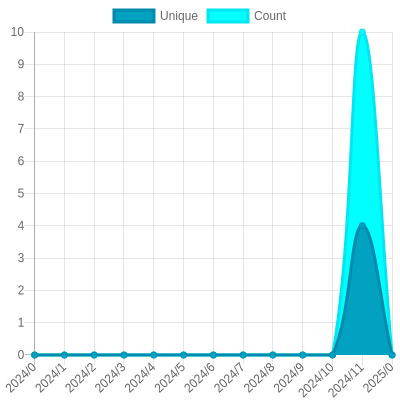
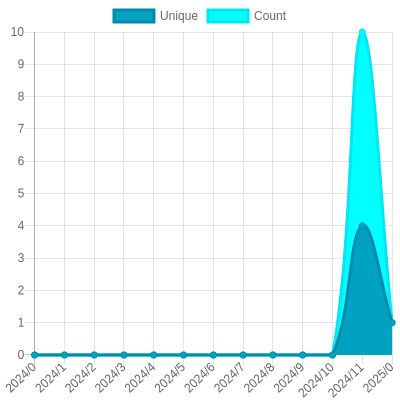
Update views

diff --git a/readme/731458581/year.md b/readme/731458581/year.md
@@ -23,10 +23,10 @@
 			<code>2024/1/1</code>
 		</td>
 		<td>
-			<code>0</code>
+			<code>1</code>
 		</td>
 		<td>
-			<code>0</code>
+			<code>1</code>
 		</td>
 	</tr>
 	<tr>
@@ -164,7 +164,7 @@
 </table>
 
 </details>
-<small><i>Last updated on 2024/1/29 6:07 AM UTC</i></small>
+<small><i>Last updated on 2024/1/29 12:08 PM UTC</i></small>
 
 ## ✂Copy and 📋 Paste
 ### SVG Badge

diff --git a/README.md b/README.md
@@ -37,7 +37,7 @@ The project created and maintained by [gayanvoice](https://github.com/gayanvoice
 	</tr>
 </table>
 
-<small><i>Last updated on 2024/1/29 6:07 AM UTC</i></small>
+<small><i>Last updated on 2024/1/29 12:09 PM UTC</i></small>
 
 ## ✂Copy and 📋 Paste
 ### Total Views Badge
